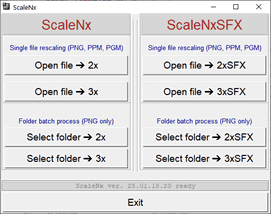
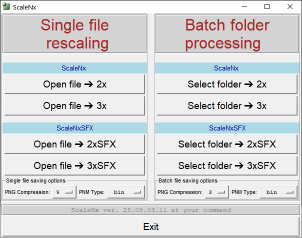
update updated

diff --git a/scalenx.html b/scalenx.html
@@ -20,14 +20,14 @@
         <h1 class='darkbg'>ScaleNx</h1>
         <h2 class='lightbg'>Scale2x, Scale3x, Scale2xSFX and Scale3xSFX image scaling in pure Python</h2>
         <div class='lightbg justborder'>
-            <p><a href='https://www.scale2x.it/algorithm'>Scale2x and Scale3x algorithms</a>Scale2x and Scale3x algorithms (sometimes referred to as AdvMAME2x and AdvMAME3x) were initially developed by <a href='https://www.scale2x.it/'>Andrea Mazzoleni</a> for scaling up small pixel graphics like game sprites and icons without introducing new colors and blurring contrast edges. That's what it was invented for, and nothing else.</p>
+            <p><a href='https://www.scale2x.it/algorithm'>Scale2x and Scale3x algorithms</a> (sometimes referred to as AdvMAME2x and AdvMAME3x) were initially developed by <a href='https://www.scale2x.it/'>Andrea Mazzoleni</a> for scaling up small pixel graphics like game sprites and icons without introducing new colors and blurring contrast edges. That's what it was invented for, and nothing else.</p>
             <p>Later on, <a href='https://web.archive.org/web/20160527015550/https://libretro.com/forums/archive/index.php?t-1655.html'>Scale2xSFX and Scale3xSFX</a> were introduced for the same goal, providing different diagonals rendering and eliminating artifacts initial ScaleNx produce on some patterns.</p>
             <div class='center'><img src='imgscalenx\diag3sfx.png' width='512' height='270' class='justborder center' style='padding: 1px;'
                 alt='Scale3xSFX example' title='Example of Scale3xSFX run three times'>
                 <p class='center'>Example of consecutive upscaling with Scale3xSFX trice.</p><p class='center small'>As can be seen above, Scale3xSFX keeps image sharp and tries to keep lines straight and accurate.<br>Keep in mind that image was increased 3*3*3 = 27&nbsp;times, meaning number of pixels increased 729&nbsp;times,<br>that is, almost all the resulting pixels are artificial.</p>
             </div>
             <p>However, it appears that ScaleNx may be successfully misused for absolutely different task: scaling up low-res text scans before OCR, and drawings before tracing them to vectors.</p>
-            <a href='https://github.com/Dnyarri/PixelArtScaling'><img src='imgscalenx/guismall.png' height='214' width='271' alt='ScaleNx module and program at GitHub' title='Main ScaleNx application' class='floatright'></a>
+            <a href='https://github.com/Dnyarri/PixelArtScaling'><img src='imgscalenx/guismall.png' height='238' width='302' alt='ScaleNx module and program at GitHub' title='Main ScaleNx application' class='floatright'></a>
             <p>With that in mind I created pure Python implementation of ScaleNx algorithms, which can be <a href='https://github.com/Dnyarri/PixelArtScaling' class='git'>downloaded from GitHub</a>. By saying &laquo;pure Python&raquo; I mean it - it doesn't even use bytearrays, only lists of lists of lists. Consider it a spiritual practice or whatever. You can download it as fully functional application, as well as &laquo;ScaleNx&raquo; module to import into your software and/or just to laugh at it.</p>
             <p>ScaleNx package includes suitable human-ready GUI shell, not surprisingly called ScaleNxGUI.py, providing easy launch of single PNG, PPM or PGM (PBM support is limited to reading only, result may be saved to another format like PNG) file rescaling procedure or batch rescaling of all images (in forementioned formats) in chosen folder and subfolders. Note that batch processing uses asynchronous multiprocessing, greatly reducing run time for a price of devouring next to 100% of CPU power, taking RAM for several images simultaneously, and rendering GUI rather unresponsive, looking like it hung up. Don't worry, it can't hang up, it can only possibly crash when trying to process really huge images (although for most recent version I yet have to see it).</p>
             <p>Needless to say, PNG support in ScaleNxGUI is provided with <a href='https://gitlab.com/drj11/pypng'>PyPNG</a>, and PPM and PGM support with <a href='https://pypi.org/project/PyPNM/'>PyPNM</a>; both are pure Python modules, thus making the whole program quite cross-platform. There is even Python&nbsp;3.4-compatible build (see below), successfully tested under Windows&nbsp;XP.</p>
@@ -58,11 +58,12 @@
             </table>
         </div>
         <div class='lightbg justborder cols512'>
-            <p><span class='red'><b>Update:</b></span> - In <a href='https://github.com/Dnyarri/PixelArtScaling/releases/tag/25.09.03.11'>main ScaleNx version&nbsp;25.09.03.11</a> and it's Python&nbsp;3.4 companion <a href='https://github.com/Dnyarri/PixelArtScaling/releases/tag/25.09.03.34'>version&nbsp;25.09.03.34</a> PNG compression and PPM/PGM type (binary or ascii) settings may be configured via GUI option menus and saved by Ctrl+Clicking on info bar as JSON "scalenx.ini" file in your user directory (directory address get copied to clipboard so you may paste it into your file manager and instantly get right to this directory, wherever it is). File may be edited with any text editor, and loaded back to ScaleNc with Alt+Click to info bar (for toads in dementia all these hints appear on mouse over info bar).</p>
+            <p><span class='red'><b>Update:</b></span> - In <a href='https://github.com/Dnyarri/PixelArtScaling/releases/tag/25.09.03.11'>main ScaleNx version&nbsp;25.09.09.09</a> and it's Python&nbsp;3.4 companion <a href='https://github.com/Dnyarri/PixelArtScaling/releases/tag/25.09.03.34'>version&nbsp;25.09.09.34</a> PNG compression and PPM/PGM type (binary or ascii) settings may be configured via GUI option menus and saved by Ctrl+Clicking on info bar as JSON "scalenx.ini" file in your user directory (directory address get copied to clipboard so you may paste it into your file manager and instantly get right to this directory, wherever it is).</p>
+            <p>Preferences file may be edited with any text editor, and loaded back to ScaleNc with Alt+Click to info bar (for toads and lesser species in dementia all these hints appear on mouse over info bar).</p>
             <p>Speaking of dementia, version 25.08.22.34 was intentionally downgraded from <i>pathlib</i> to <i>os</i>, making it even more compatible with old Python version. Now you can read the Source and see how ladies were laid and recursive directory reading was made before Path.rglob was introduced.</p>
-            <p>Both <i>main</i> and <i>.py34</i> versions are relinked with newest <a href='pypnm.html'>PyPNM version&nbsp;2</a>, providing considerable memory usage saving while working with PPM and PGM files.</p>
-            <p><span class='red'><b>Previously on ScaleNx:</b></span>Version 25.02.09.18 of main program have no change in ScaleNx module but is relinked with updated version of <a href='https://dnyarri.github.io/pypnm.html'>PyPNM</a> module providing per row file writing, thus reducing memory usage; <a href='https://gitlab.com/drj11/pypng'>PyPNG</a> data exchange changed to row generators thus making memory usage as small as possible with this format.</p>
-            <p>On my rather old notebook main ScaleNxGUI program appeared to be able to upscale 8224x8224&nbsp;px RGB image with Scale2x and Scale2xSFX up to 16448x16448&nbsp;px, and then successfully save the result as both PNG and PPM. Considering the fact that resulting image will be something like 1.4x1.4&nbsp;meters when printed at 300&nbsp;ppi, I assume that further experiments with larger images on my notebook may raise doubts in my formally confirmed &laquo;mentally sane&raquo; status.</p>
+            <p>Both <i>main</i> and <i>.py34</i> versions are relinked with newest <a href='pypnm.html'>PyPNM version&nbsp;2</a>, providing considerable memory usage reduction while working with PPM and PGM files.</p>
+            <p><span class='red'><b>Previously on ScaleNx:</b></span> Version 25.02.09.18 of main program have no change in ScaleNx module but is relinked with updated version of <a href='https://dnyarri.github.io/pypnm.html'>PyPNM</a> module providing per row file writing, thus reducing memory usage; <a href='https://gitlab.com/drj11/pypng'>PyPNG</a> data exchange changed to row generators thus making memory usage as small as possible with this format.</p>
+            <p>On my rather old notebook main ScaleNxGUI program appeared to be able to upscale 8224x8224&nbsp;px RGB image with Scale2x and Scale2xSFX up to 16448x16448&nbsp;px, and then successfully save the result as both PNG and PPM. Considering the fact that resulting image will occupy <i>ca.</i>&nbsp;1.4x1.4&nbsp;meters when printed at 300&nbsp;ppi, I assume that further scaling up the experiments with larger images on my notebook may raise doubts in my formally confirmed &laquo;mentally sane&raquo; status.</p>
             <p>In version 25.02.01 FIR optimization of Scale2x, Scale3x, Scale2xSFX and Scale3xSFX performed, speed gain is in range from <i>ca.</i> 15% for Scale2x to <i>ca.</i> 50% for the others (since Scale2x work on minimal kernel already, there's not much room for further list read access reduction, therefore speed increase is minimal).</p>
             <p><span class='red'><b>For Windows users</b></span>, compiled <a href='https://github.com/Dnyarri/PixelArtScaling/releases/latest' class='git'>ScaleNxGUI32.exe for Windows&nbsp;XP 32&nbsp;bit and  ScaleNxGUI64.exe for Windows&nbsp;10 64&nbsp;bit are available for download at newest release page</a>, what as to other platforms, since the program is pure Python and quite self-contained, release source is supposed to work with any current canonic Python installation right out of the box.</p>
         </div>

diff --git a/pypnm.html b/pypnm.html
@@ -26,13 +26,13 @@
                 <li>unwillingness of many software developers to provide any good support for simple and open format. It took years for almighty Adobe Photoshop developers to include PNM module in distribution rather than count on third-party developers, and surely (see above) they used this chance to implement their own unusual separator scheme nobody else uses. What as to PNM support in Python, say, Pillow... sorry, I promised not to discuss Pillow anywhere ladies and children are allowed to read it.</li>
             </ul>
             <p>As a result, novice Python user (like me) may find it difficult to get reliable input/output modules for PPM and PGM image formats; therefore current PyPNM package was developed, combining input/output functions for 8-bits and 16-bits per channel binary and ascii PGM and PPM files, <i>i.e.</i> P2, P5, P3 and P6 PNM file types. P1 and P4 (1&nbsp;bit) PBM formats are supported only for reading.</p>
-            <p><span class='red'>PyPNM key functionality</span> comprise:</p>
+            <p><span class='red'><b>PyPNM key functionality</span></b> comprise:</p>
             <ul>
                 <li>conversion of in-memory image representation as 3D nested list into PNM-like byte structure for easy <span class='red'><b>preview</b></span> with Tkinter PhotoImage(data=...) method;</li>
                 <li><span class='red'><b>reading</b></span> PPM, PGM and PBM files from disk into image representation as 3D nested list;</li>
                 <li><span class='red'><b>writing</b></span> image representation as 3D nested list to PPM or PGM file on disk.</li>
             </ul>
-            <p style='font-size: 10pt; margin: 6pt 24pt;'><i>(Interlude start)</i> Actually what I needed was small and simple facility for displaying image-like data for image editing/filtering applications like &laquo;Averager&raquo; from <a href='povthread.html'>POVThread</a>. Yes, I want to be able to write image filter in Python and view result without huge extra packages. Using Tkinter with PPM/PGM looked like simplest solution, so I created some module for turning nested 3D lists to PPM-like bytes structures in memory. Since it required learning PNM specs anyway, I decided to add PPM/PGM files reading and writing on top of that. <i>Etc.</i>, as Kurt Vonnegut kept saying. <i>(Interlude end)</i></p>
+            <p style='font-size: 10pt; margin: 6pt 24pt;'><i>(Interlude start)</i> Actually what I needed was small and simple facility for displaying image-like data for image editing/filtering applications like <a href='povthread.html#averager'>&laquo;Averager&raquo;</a>. Yes, I want to be able to write image filter in Python and view result without huge extra packages. Using Tkinter with PPM/PGM looked like simplest solution, so I created some module for turning nested 3D lists to PPM-like bytes structures in memory. Since it required learning PNM specs anyway, I decided to add PPM/PGM files reading and writing on top of that. <i>Etc.</i>, as Kurt Vonnegut kept saying. <i>(Interlude end)</i></p>
             <p>You may easily acquire PyPNM module either from Github or from PyPI and use it absolutely free.</p>
             <table cols='3' class='justborder lighter' style='margin: 12pt 24pt 24pt;'>
                 <thead style='display: table-header-group'>
@@ -44,12 +44,12 @@
                 </thead>
                 <tbody>
                 <tr style='vertical-align: top;'>
-                    <td style='border-top: 4px double #00000080;'><p style='text-align: left;'>Current version<br>(Python&nbsp;3.11 and above) <br><b>1.17.9.2</b></p></td>
+                    <td style='border-top: 4px double #00000080;'><p style='text-align: left;'>Current version<br>(Python&nbsp;3.11 and above) <br><b>2.21.2.2</b></p></td>
                     <td style='border-top: 4px double #00000080;'><p style='text-align: left;'><a href='https://github.com/Dnyarri/PyPNM' class='git'>PyPNM main at Github</a></p></td>
                     <td style='border-top: 4px double #00000080;'><p>PyPNM module and sample viewer application, <br>illustrating all reading, displaying and writing functions in action.</p></td>
                 </tr>
                 <tr style='vertical-align: top;'>
-                    <td rowspan='2' style='border-top: 4px double #00000080;'><p style='text-align: left;'>Python&nbsp;3.4 compatible<br>(tested under Windows&nbsp;XP) <br><b>1.17.9.34.post2</b></p></td>
+                    <td rowspan='2' style='border-top: 4px double #00000080;'><p style='text-align: left;'>Python&nbsp;3.4 compatible<br>(tested under Windows&nbsp;XP) <br><b>2.21.2.34</b></p></td>
                     <td style='border-top: 4px double #00000080;'><p style='text-align: left;'><a href='https://github.com/Dnyarri/PyPNM/tree/py34/' class='git'>PyPNM py34 at Github</a></p></td>
                     <td style='border-top: 4px double #00000080;'><p>PyPNM module and sample viewer application, <br>illustrating all reading, displaying and writing functions in action. Viewer in .34 version include <a href='https://gitlab.com/drj11/pypng'>PNG</a> support which is not a part of PyPNM and included here just because it's a rare case of format support for Python&nbsp;3.4.</p></td>
                 </tr>
@@ -59,12 +59,19 @@
                 </tr>
                 </tbody>
             </table>
-            <p><span class='red'><b>Good news everyone!</b></span> <a href='https://github.com/Dnyarri/PyPNM'><b>PyPNM updated to version&nbsp;2</b></a>.</p>
-            <p>This major update includes numerous measures aimed toward resource saving: using <span class='pre'>mmap</span> instead of direct file reading and generators instead of intermediate lists.</p>
-            <p>While module was completely rewritten, input and output types and data structure remain the same, so versions 2.21.2.* "Victory II" are completely interchangeable with 1.17.9.* "Victory"./</p>
-            <p>In <b>ver.&nbsp;1.17.9.34 &laquo;Victory&raquo;</b> (maximum compatibility) forced 8&nbsp;bit preview for 16&nbsp;bit images implemented when running under old Python versions (prior 3.11).</p>
+            <div class='cols512 justborder lighter'>
+            <h3>Recent updates</h3>
+            <p><span class='red'><b>Good news everyone!</b></span> <span class='git'><a href='https://github.com/Dnyarri/PyPNM'><b>PyPNM updated to version&nbsp;2</b></a>.</span></p>
+            <p>This major update includes numerous measures focused on reducing resource usage:</p>
+            <ul>
+                <li>using <span class='pre'>mmap</span> instead of direct file reading;</li>
+                <li>using generators instead of intermediate lists wherever possible.</li>
+            </ul>
+            <p>Note that although module was completely rewritten, input and output types and data structure remain the same, so versions 2.21.2.* &laquo;Victory&nbsp;II&raquo; are completely interchangeable with 1.17.9.* &laquo;Victory&raquo;.</p>
+            <p><span class='red'><b>Previously on PyPNM:</b></span> In <b>ver.&nbsp;1.17.9.34 &laquo;Victory&raquo;</b> (maximum compatibility) forced 8&nbsp;bit preview for 16&nbsp;bit images implemented when running under old Python versions (prior 3.11).</p>
             <p>In ver.&nbsp;1.17.1.1 PNM export functions restructured to provide easy format switch. Backward compatibility maintained.</p>
-            <p>In ver.&nbsp;1.15.1.1 image viewing function updated to show LA and RGBA images over chessboard background (like Photoshop and GIMP). This mode requires enabling newly added option, which, in turn, requires RTFM. In ver.&nbsp;1.14.8.19 memory usage for writing PPM and PGM files greatly reduced. Binary files (P6 and P5 correspondingly) are written per image row (which is considered as reasonable tradeoff between memory usage and disk thrashing), ASCII files (P3 and P2) are written per sample (which is minimal memory using scenario).</p>
+            <p>In ver.&nbsp;1.15.1.1 image viewing function updated to show LA and RGBA images over chessboard background (like Photoshop and GIMP). This mode requires enabling newly added option, which, in turn, requires <a href='https://dnyarri.github.io/pypnm/pypnm.pdf'>RTFM</a>. In ver.&nbsp;1.14.8.19 memory usage for writing PPM and PGM files greatly reduced. Binary files (P6 and P5 correspondingly) are written per image row (which is considered as reasonable tradeoff between memory usage and disk thrashing), ASCII files (P3 and P2) are written per sample (which is minimal memory using scenario).</p>
+            </div>
         </div>
         <h3 class='lightbg' style='max-width: 300pt;'>Format compatibility</h3>
         <div class='lightbg justborder' style='max-width: 420pt;'>

diff --git a/index.html b/index.html
@@ -54,7 +54,7 @@
         <h4 class='darkbg'>Scale2x, Scale3x, Scale2xSFX and Scale3xSFX in pure Python</h4>
         <div class='lightbg justborder'>
             <p><a href='scalenx.html'>ScaleNx</a> is a pure Python implementation of several <a href='https://en.wikipedia.org/wiki/Pixel-art_scaling_algorithms'>pixel art image scaling</a> algorithms, <i>viz.</i> Scale2x, Scale3x, Scale2xSFX and Scale3xSFX. Main program for both single file and batch folder processing with suitable GUI is available, free and open source.</p>
-            <p><span class='red'><b>Update:</b></span> In version 25.09.03.11 of main program file format options handling added to GUI; PyPNM updated to version&nbsp;2 using less memory. <a href='scalenx.html'><i>Read more...</i></a></p>
+            <p><span class='red'><b>Update:</b></span> In version 25.09.09.09 of main program file format options handling added to GUI; PyPNM updated to version&nbsp;2 using less memory. <a href='scalenx.html'><i>Read more...</i></a></p>
         </div>
         <h4 class='darkbg'>PGM and PPM image files handling in pure Python</h4>
         <div class='lightbg justborder'>
